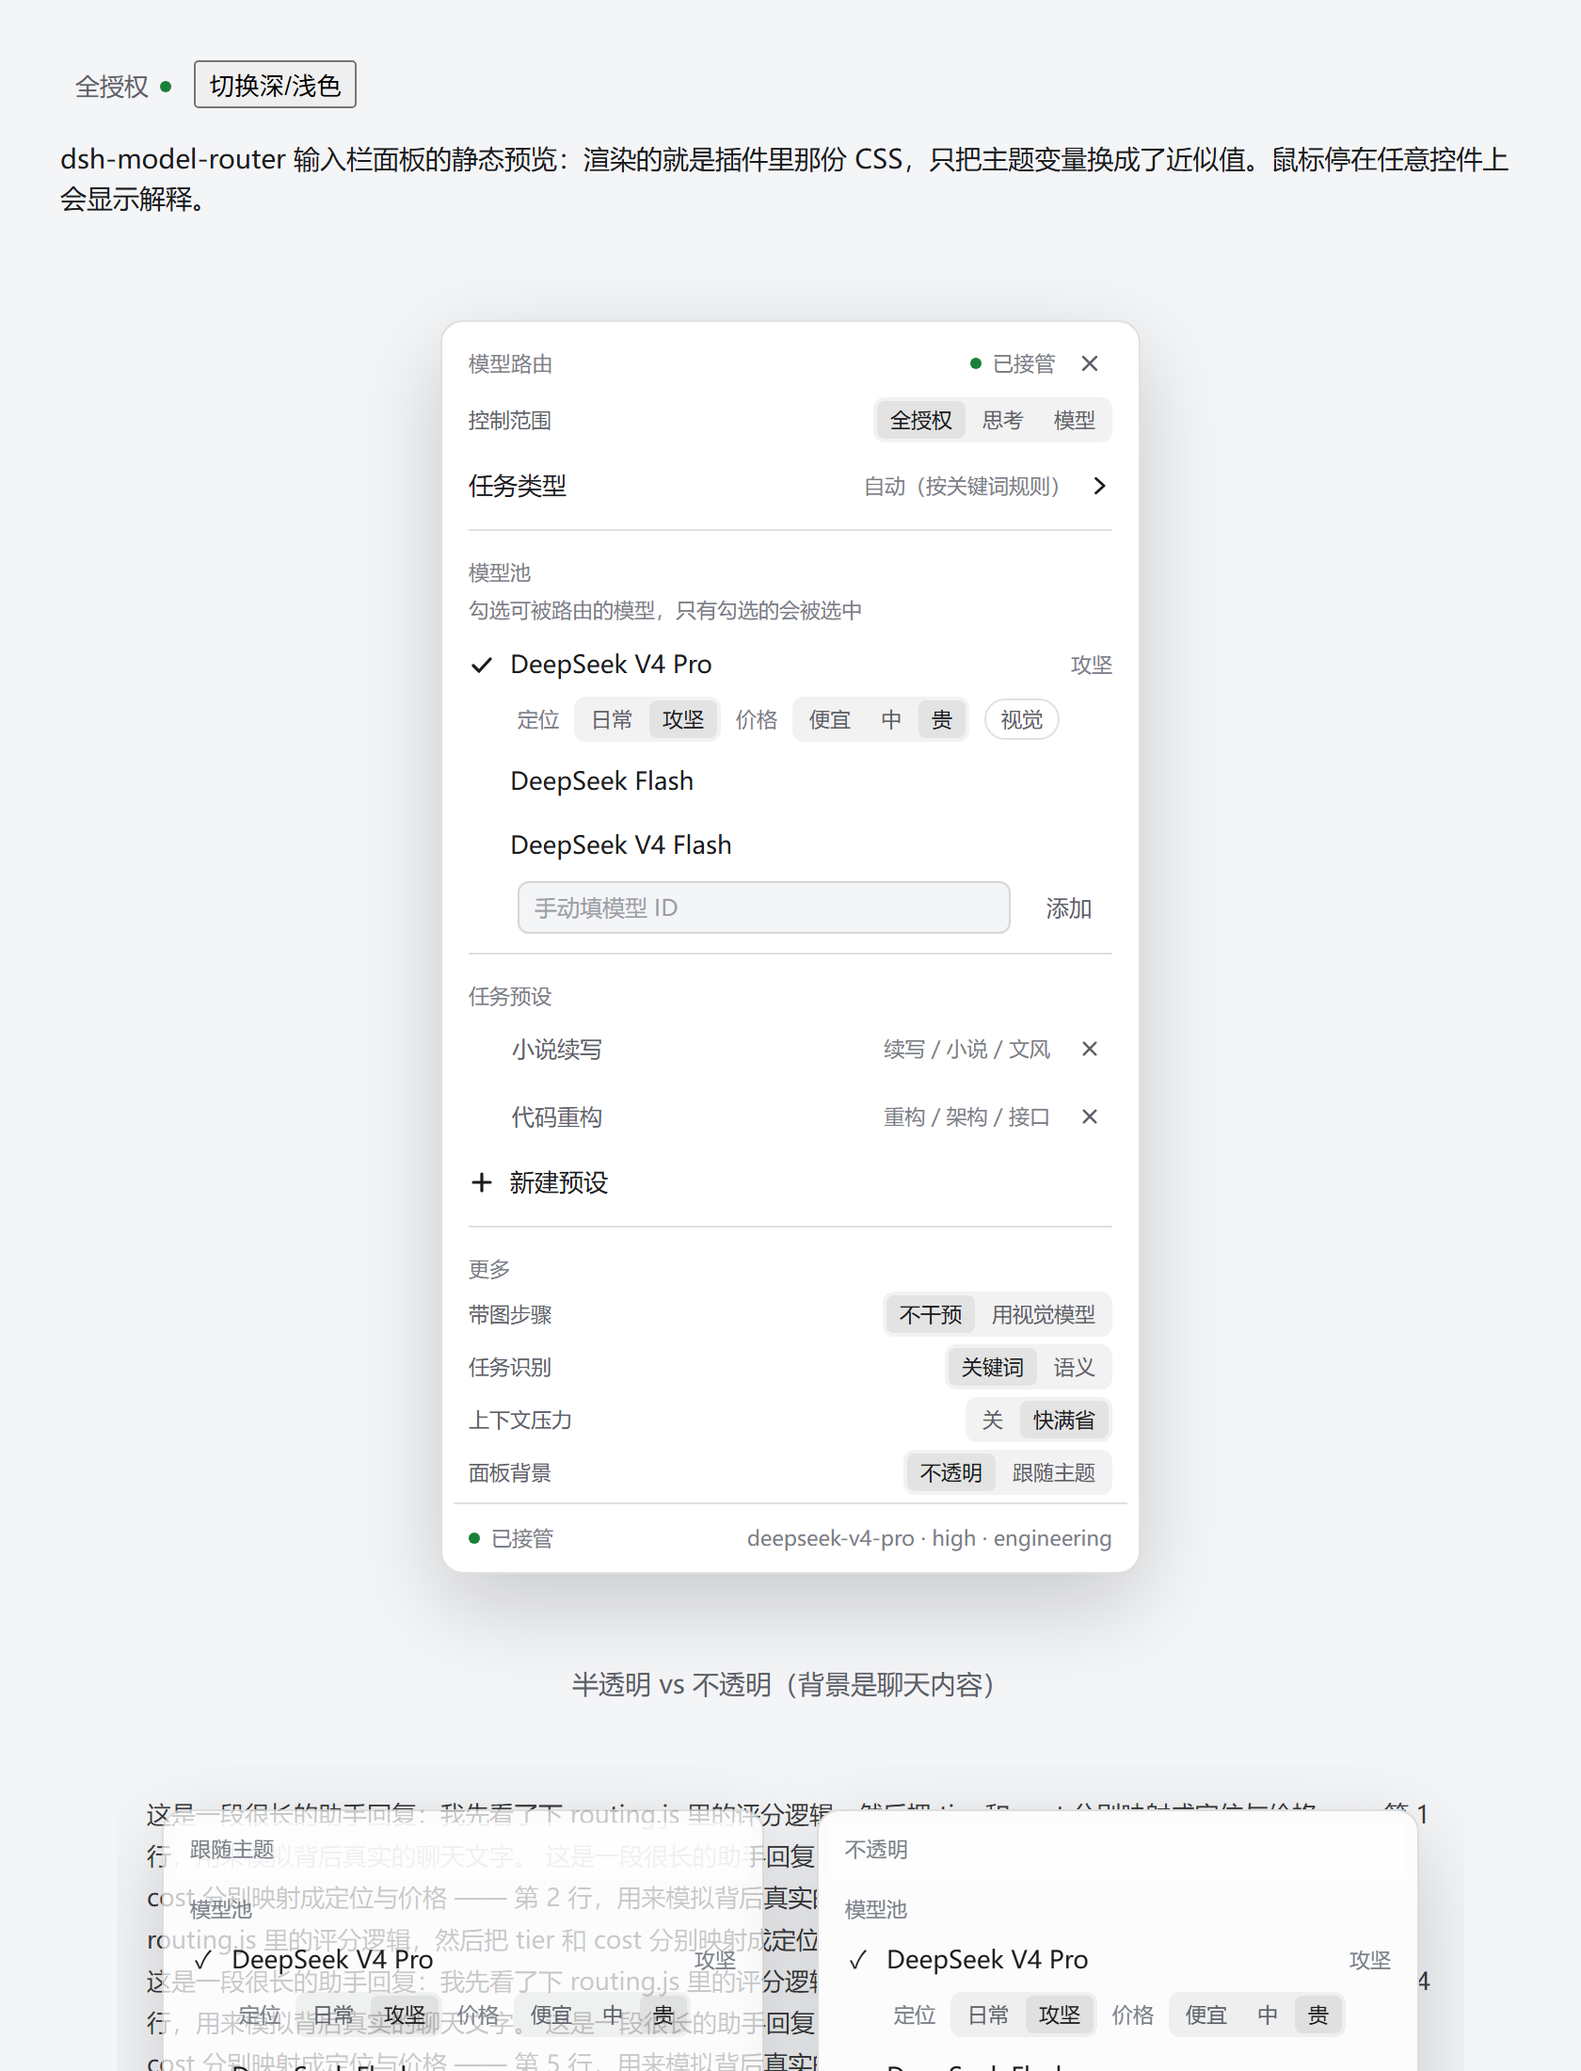
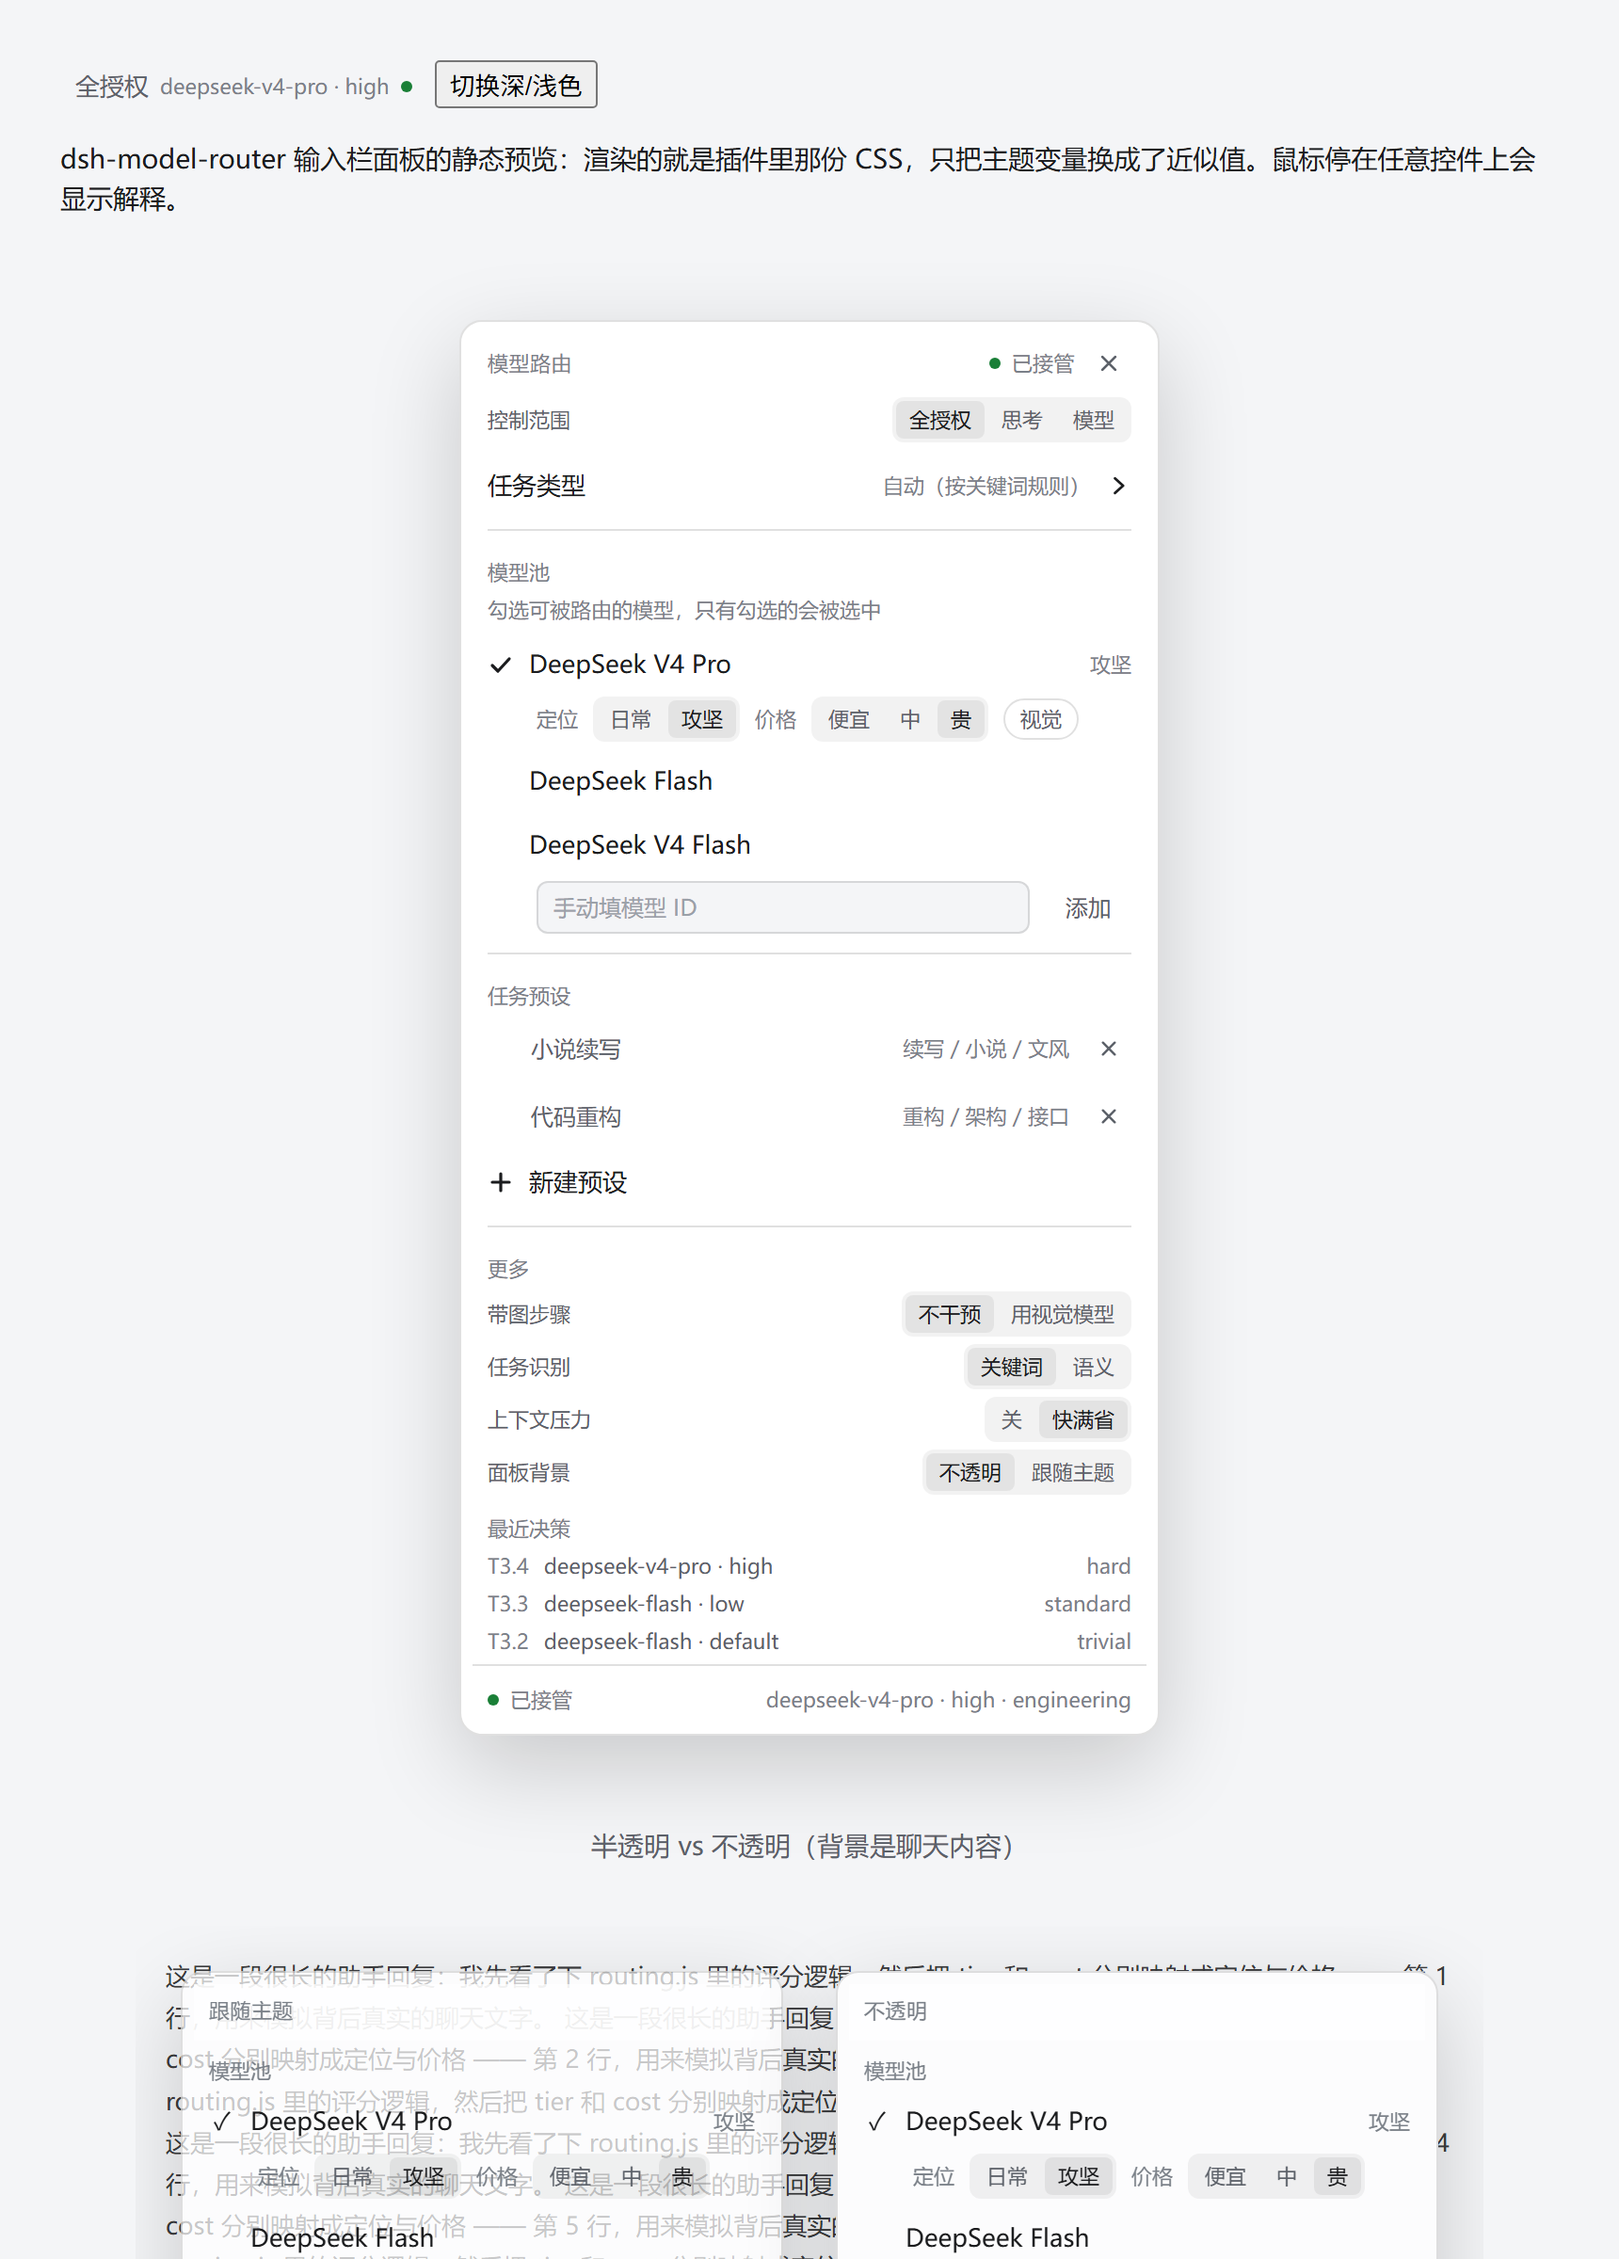
feat(ui): show the routed model and effort for every step (0.6.10)
- the composer chip now carries the live choice next to the scope (全授权 · v4-pro · high)
  and polls the host every 2.5s while a task runs, so each round's model and effort are
  visible without opening the panel; the tooltip carries provider/model, effort and class
- the panel gained a 最近决策 section: the last five routed steps as
  T<turn>.<step> · model · effort · class
- docs/ui-preview.html and the captures refreshed; 80 tests

diff --git a/client/client.js b/client/client.js
@@ -56,6 +56,7 @@ window.__ModuleLoader__.load({
 				pressure: "上下文压力", on: "快满省", off: "关",
 				noPresets: "还没有预设", current: "当前", loading: "读取中…", empty: "没有可选项",
 				noSession: "新会话还没建立：这里的选择会成为默认值，发出第一条消息后按会话生效",
+				recent: "最近决策", turnShort: "轮",
 				needName: "先给任务类型起个名字", session: "会话",
 				poolAdd: "手动填模型 ID", delete: "删",
 			},
@@ -91,6 +92,7 @@ window.__ModuleLoader__.load({
 				pressure: "Context pressure", on: "cheap", off: "off",
 				noPresets: "no presets yet", current: "now", loading: "loading…", empty: "nothing to show",
 				noSession: "no session yet — your pick becomes the default and applies once this conversation starts",
+				recent: "Recent routing", turnShort: "turn",
 				needName: "name the task type first", session: "session",
 				poolAdd: "add a model id", delete: "del",
 			},
@@ -290,6 +292,16 @@ window.__ModuleLoader__.load({
 
 			react.useEffect(() => { load() }, [load])
 			react.useEffect(() => {
+				// The host records every routed step; poll so the badge and the panel show
+				// the model and effort of the current step while a task is running.
+				if (!sessionId || typeof setInterval !== "function") return undefined
+				const timer = setInterval(() => {
+					if (typeof document !== "undefined" && document.hidden) return
+					load()
+				}, 2500)
+				return () => clearInterval(timer)
+			}, [sessionId, load])
+			react.useEffect(() => {
 				if (typeof console !== "undefined" && console.info) {
 					console.info("[model-router] composer control ready (session " + (sessionId || "none") + ")")
 				}
@@ -341,6 +353,9 @@ window.__ModuleLoader__.load({
 
 			const mode = state ? state.effectiveControl : "full"
 			const yielded = state ? state.engaged === false : false
+			const current = state && state.current ? state.current : null
+			const currentModel = current ? String(current.model || "").split("/").pop() : ""
+			const currentEffort = current ? (current.effort || "default") : ""
 			const pool = poolOverride || ((state && state.pool) || [])
 			const presets = (state && state.presets) || {}
 			const settings = (state && state.settings) || {}
@@ -415,9 +430,14 @@ window.__ModuleLoader__.load({
 			const parts = [
 				h("button", {
 					key: "trigger", type: "button", className: "mr-trigger", ref: triggerRef,
-					title: t.title + " · " + (yielded ? t.yieldedHint : t.engagedHint), onClick: openPanel,
+					title: t.title + " · " + (yielded ? t.yieldedHint : t.engagedHint) +
+						(current ? " — " + current.provider + "/" + current.model + " · " + currentEffort + " · " + (current.stepClass || "") : ""),
+					onClick: openPanel,
 				},
 					h("span", null, t[mode] || mode),
+					current
+						? h("span", { className: "mr-sub", title: current.provider + "/" + current.model }, currentModel + " · " + currentEffort)
+						: null,
 					h("span", { className: "mr-dot", "data-yielded": String(yielded) })
 				),
 			]
@@ -650,6 +670,18 @@ window.__ModuleLoader__.load({
 						})
 					))
 
+					if (state && state.decisions && state.decisions.length > 0) {
+						body.push(h("div", { key: "recent-title", className: "mr-group" }, t.recent))
+						body.push(h("div", { key: "recent" },
+							state.decisions.slice(-5).reverse().map((decision, index) => h("div", {
+								key: String(index), className: "mr-line", style: { padding: "0 8px" },
+							},
+								h("span", { className: "mr-tag" }, "T" + (decision.turn === undefined ? "?" : decision.turn) + "." + (decision.step === undefined ? "?" : decision.step)),
+								h("span", { className: "mr-name", title: (decision.provider || "") + "/" + (decision.model || "") }, (decision.model || "") + " · " + (decision.effort || "default")),
+								h("span", { className: "mr-sub" }, decision.stepClass || "")
+							))
+						))
+					}
 					body.push(h("div", { key: "foot", className: "mr-foot" },
 						h("span", { className: "mr-dot", "data-yielded": String(yielded) }),
 						h("span", null, yielded ? t.yielded : t.engaged),

diff --git a/docs/ui-preview.html b/docs/ui-preview.html
@@ -77,7 +77,7 @@ body{margin:0;min-height:100vh;display:flex;flex-direction:column;align-items:ce
 <body>
 <div class="main">
 <div class="wrap">
-  <button class="mr-trigger" type="button">全授权 <span class="mr-dot" data-yielded="false"></span></button>
+  <button class="mr-trigger" type="button">全授权 <span class="mr-sub" title="deepseek-official/deepseek-v4-pro">deepseek-v4-pro · high</span> <span class="mr-dot" data-yielded="false"></span></button>
   <button class="toggle" type="button" onclick="var r=document.documentElement;r.dataset.theme=r.dataset.theme==='dark'?'light':'dark'">切换深/浅色</button>
   <p class="caption">dsh-model-router 输入栏面板的静态预览：渲染的就是插件里那份 CSS，只把主题变量换成了近似值。鼠标停在任意控件上会显示解释。</p>
 </div>
@@ -104,6 +104,12 @@ body{margin:0;min-height:100vh;display:flex;flex-direction:column;align-items:ce
   <div class="mr-line" style="padding:2px 8px"><span class="mr-name" title="关键词 = 按预设里的 match；语义 = 每轮一次小模型判断">任务识别</span><div class="mr-seg" title="关键词 = 按预设里的 match；语义 = 每轮一次小模型判断"><button data-active="true" title="按预设里的 match 匹配">关键词</button><button title="每轮一次小模型判断">语义</button></div></div>
   <div class="mr-line" style="padding:2px 8px"><span class="mr-name" title="上下文压力：快满时优先用便宜模型">上下文压力</span><div class="mr-seg" title="快满时优先用便宜模型"><button title="不参与判断">关</button><button data-active="true" title="上下文快满时优先便宜模型">快满省</button></div></div>
   <div class="mr-line" style="padding:2px 8px"><span class="mr-name" title="半透明的主题菜单色会让背后的聊天内容透上来">面板背景</span><div class="mr-seg" title="选「不透明」最好读；选「跟随主题」会加毛玻璃模糊"><button data-active="true" title="用主题底色算出不透明色，文字最清楚">不透明</button><button title="沿用主题的半透明菜单色，再加背景模糊">跟随主题</button></div></div>
+  <div class="mr-group">最近决策</div>
+  <div>
+    <div class="mr-line" style="padding:0 8px"><span class="mr-tag">T3.4</span><span class="mr-name" title="deepseek-official/deepseek-v4-pro">deepseek-v4-pro · high</span><span class="mr-sub">hard</span></div>
+    <div class="mr-line" style="padding:0 8px"><span class="mr-tag">T3.3</span><span class="mr-name" title="deepseek-official/deepseek-flash">deepseek-flash · low</span><span class="mr-sub">standard</span></div>
+    <div class="mr-line" style="padding:0 8px"><span class="mr-tag">T3.2</span><span class="mr-name" title="deepseek-official/deepseek-flash">deepseek-flash · default</span><span class="mr-sub">trivial</span></div>
+  </div>
   <div class="mr-foot"><span class="mr-dot" data-yielded="false"></span><span>已接管</span><span class="mr-name" style="text-align:right">deepseek-v4-pro · high · engineering</span></div>
 </div>
 <script>if (location.hash === "#light") document.documentElement.dataset.theme = "light"</script>

diff --git a/CHANGELOG.md b/CHANGELOG.md
@@ -1,5 +1,17 @@
 # Changelog
 
+## 0.6.10
+
+**The routed model and its effort are visible again, for every step.**
+
+- The composer chip now carries the live choice next to the scope — `全授权 · v4-pro · high` —
+  and refreshes every 2.5s while a task runs (hidden tabs skip the poll), so each round's
+  model and reasoning effort are visible without opening the panel. The tooltip has the full
+  `provider/model`, the effort and the step class.
+- The panel gained **最近决策**: the last five routed steps as
+  `T<turn>.<step> · model · effort · class`, so the per-step story is readable after the fact.
+- 80 tests; `docs/ui-preview.html` and the captures were refreshed.
+
 ## 0.6.9
 
 **Two bugs the composer UI showed: a dead scope control in a new conversation, and an

diff --git a/PUBLISHING.md b/PUBLISHING.md
@@ -72,7 +72,7 @@ model seat.
 
 ## npm
 
-Published: **`@neptune810/dsh-model-router@0.6.9`** (2026-09-29). Earlier releases: 0.6.8, 0.6.7, 0.6.6, 0.6.5, 0.6.4, 0.6.3, 0.6.2, 0.6.1, 0.6.0, 0.5.0, 0.4.0, 0.3.0 (2026-09-15).
+Published: **`@neptune810/dsh-model-router@0.6.10`** (2026-09-29). Earlier releases: 0.6.9, 0.6.8, 0.6.7, 0.6.6, 0.6.5, 0.6.4, 0.6.3, 0.6.2, 0.6.1, 0.6.0, 0.5.0, 0.4.0, 0.3.0 (2026-09-15).
 Listing does not depend on it —
 the market installs from the repository — but a registry package gives storefronts a download count
 and lets people install without the `github:` spec.
